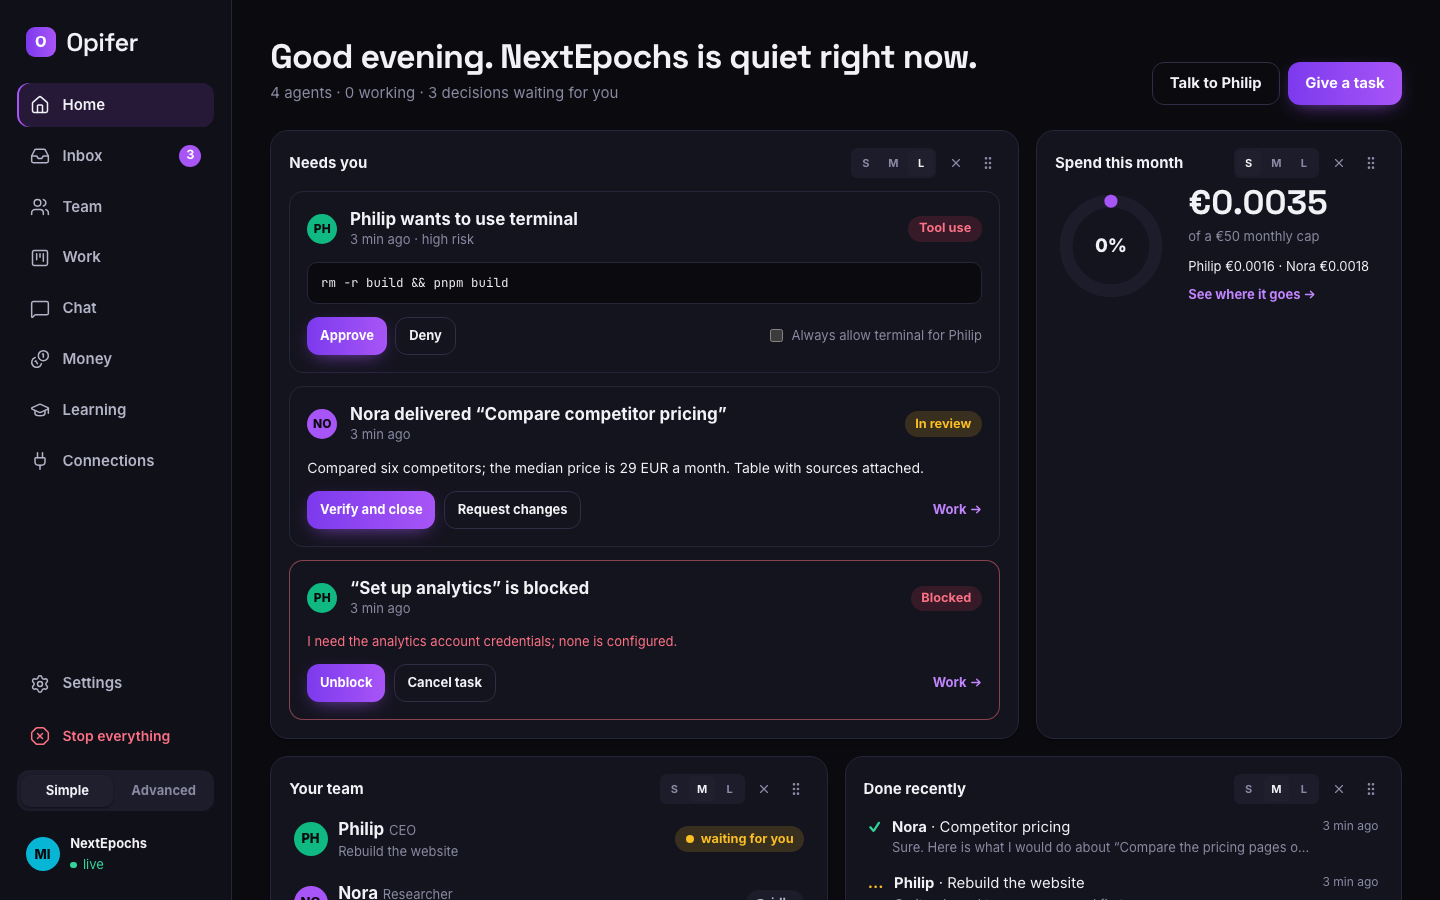
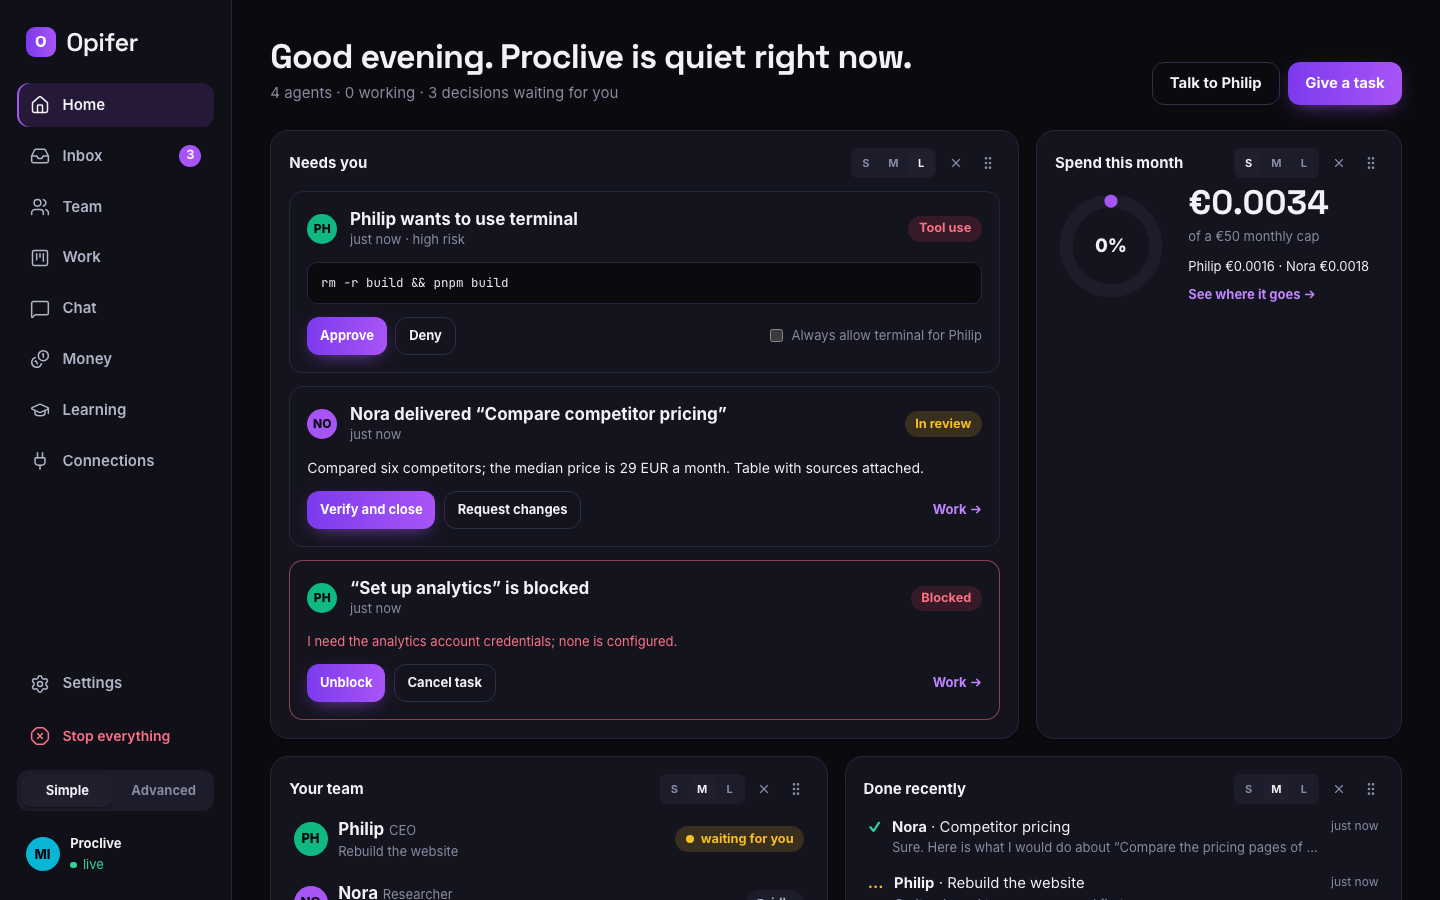
Screenshots and the export test follow the demo company's new name
The previous commit renamed the demo company to Proclive and left the export test expecting the old file name. Screenshots for the README and the site retaken from the preview server.

diff --git a/packages/server/test/transfer.test.ts b/packages/server/test/transfer.test.ts
@@ -42,7 +42,7 @@ describe("Company export and import", () => {
   it("the export carries configuration and work, never a secret value or a session", async () => {
     const response = await app.inject({ method: "GET", url: `/v1/companies/${companyId}/export` });
     expect(response.statusCode).toBe(200);
-    expect(response.headers["content-disposition"]).toContain("opifer-nextepochs.json");
+    expect(response.headers["content-disposition"]).toContain("opifer-proclive.json");
     const doc = response.json() as CompanyExport;
     expect(doc.format).toBe("opifer-company");
     expect(doc.tables["agents"]).toHaveLength(4);
